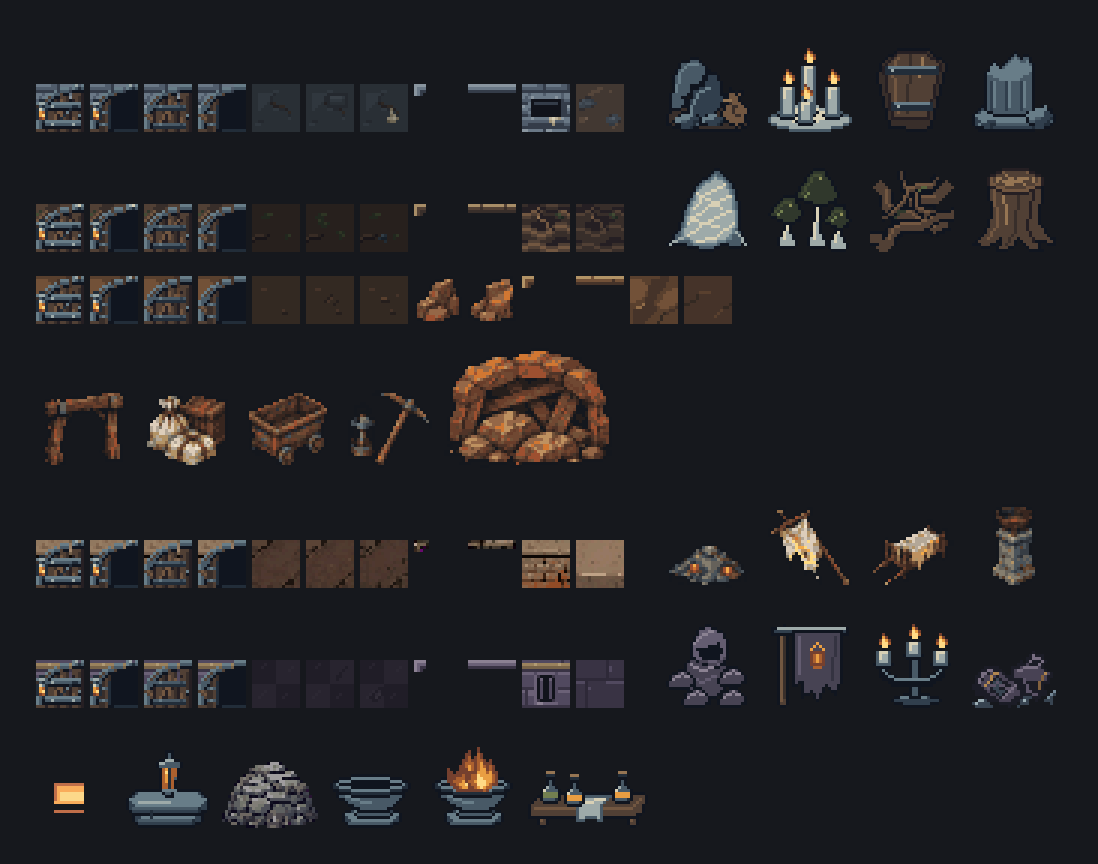
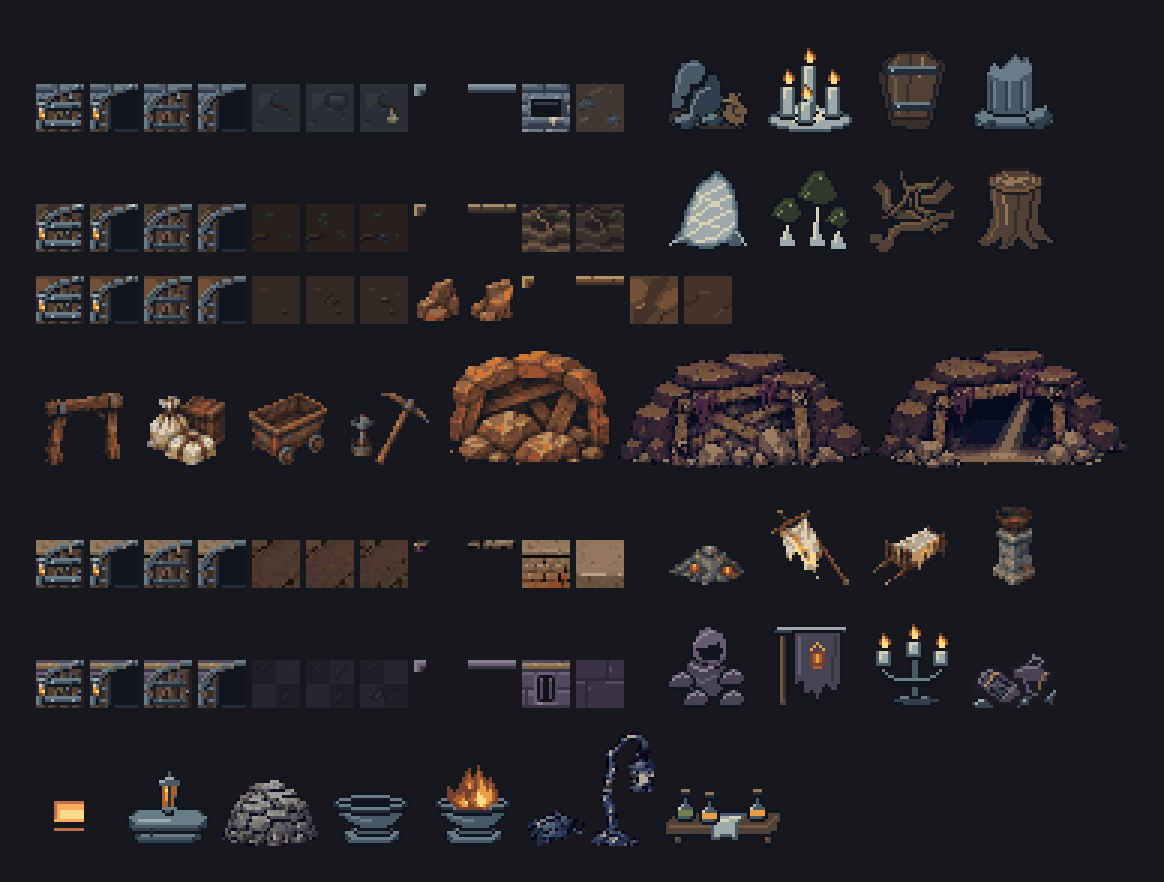
feat: 게임 구역에 에셋 페이지 — 모음 그림을 게임 홈에서 옮김, 기억의 길 그림 반영
- /games/<게임>/assets/ 와 구역 메뉴 '에셋' (gallery가 있는 게임만)
- 갤러리 다시 만듦: 캐릭터에 옛 왕국 사람 5종, 타일·소품에 기억의 길 소품

diff --git a/src/lib/data.js b/src/lib/data.js
@@ -54,13 +54,14 @@ export const storyFor = (slug) =>
     .map(([p, m]) => ({ slug: p.split('/').pop().replace(/^\d+-/, '').replace(/\.md$/, ''), ...m.frontmatter, Content: m.Content }))
     .sort((a, b) => a.order - b.order);
 
-// 게임 구역 메뉴 줄 (게임 이름 옆에 붙음): 게임 홈 · 소설(원고가 있을 때만) · 블로그 · 소개
+// 게임 구역 메뉴 줄 (게임 이름 옆에 붙음): 게임 홈 · 소설(원고가 있을 때만) · 에셋(gallery가 있을 때만) · 블로그 · 소개
 export const gameNav = (game) => {
   const base = `/games/${game.slug}/`;
-  const subs = ['story/', 'blog/', 'about/'].map((s) => base + s);
+  const subs = ['story/', 'assets/', 'blog/', 'about/'].map((s) => base + s);
   return [
     { href: base, label: '게임 홈', not: subs },
     ...(storyFor(game.slug).length > 0 ? [{ href: base + 'story/', label: '소설' }] : []),
+    ...(game.gallery?.length > 0 ? [{ href: base + 'assets/', label: '에셋' }] : []),
     { href: base + 'blog/', label: '블로그' },
     { href: base + 'about/', label: '소개' },
   ];

diff --git a/README.md b/README.md
@@ -31,7 +31,7 @@ scripts/fetch-commits.mjs   커밋 기록 가져오기
 
 **세계관 글**: 게임 저장소의 설정 문서는 비공개라 그대로 옮기지 않아요. 뼈대만 짧게 다시 쓰고, 보스의 정체와 엔딩은 적지 않아요.
 
-**새 게임 추가**: `src/data/games/<slug>.json`을 하나 더 두면 (등불지기 것을 본떠서, `order`는 다음 번호) 그 게임 구역이 통째로 생겨요 — 홈 `/games/<slug>/`, 블로그 `/games/<slug>/blog/`, 소개 `/games/<slug>/about/`. 그 구역 안에서는 맨 위 메뉴 아래에 그 게임 메뉴 줄이 하나 더 붙어요. 그림은 `public/games/<slug>/art/`, 글은 `src/posts/<slug>/`, 소설이 있으면 아래 `import-story.py`로 옮기고 JSON에 `story`(제목 `title`, 소개 문장 `lead`, 안내 `note`)를 적어요. 전체 홈의 게임 목록에도 한 줄이 저절로 늘어요.
+**새 게임 추가**: `src/data/games/<slug>.json`을 하나 더 두면 (등불지기 것을 본떠서, `order`는 다음 번호) 그 게임 구역이 통째로 생겨요 — 홈 `/games/<slug>/`, 블로그 `/games/<slug>/blog/`, 소개 `/games/<slug>/about/` (`gallery`가 있으면 에셋 `/games/<slug>/assets/`). 그 구역 안에서는 맨 위 메뉴 아래에 그 게임 메뉴 줄이 하나 더 붙어요. 그림은 `public/games/<slug>/art/`, 글은 `src/posts/<slug>/`, 소설이 있으면 아래 `import-story.py`로 옮기고 JSON에 `story`(제목 `title`, 소개 문장 `lead`, 안내 `note`)를 적어요. 전체 홈의 게임 목록에도 한 줄이 저절로 늘어요.
 
 **게임 상태 바꾸기**: 게임 JSON의 `status`를 `개발 중` / `데모` / `출시` 중 하나로.
 - `개발 중`: 플레이 화면 대신 "테스트 참여 문의"
@@ -62,7 +62,7 @@ scripts/publish-webgl.sh lanternkeeper ../LanternKeeper --pre-method SpriteLibra
 ```
 ../.venv/bin/python scripts/make-gallery.py lanternkeeper ../LanternKeeper/Assets/Art --zones catacomb,forest,cave,corridor,castle --own village,hub
 ```
-게임 그림 폴더의 png를 파일 이름 앞머리(`char_`·`enemy_` / `tile_`·`prop_` / `icon_`·`weapon_`·`proj_`·`obj_`·`pickup_` / `fx_` / `ui_`, 보스 `boss_`)로 나눠 `public/games/<slug>/art/gallery_*.webp`를 만들어요. `--own`에 적은 이름(마을)의 타일·소품은 `gallery_village.webp`로 따로 한 장. `boss_`는 `gallery_bosses.webp`에 보스마다 한 줄(자세 그림 포함), `obj_`(소환수)는 아이콘·무기 모음, `ui_`는 `gallery_ui.webp`. 어느 모음에도 안 들어간 그림이 있으면 끝에 이름을 알려 줘요(새 앞머리가 생기면 스크립트에 추가). 게임 JSON의 `gallery`(제목·그림·크기·설명)와 `galleryNote`는 직접 적어요. `gallery`가 없는 게임은 칸이 나오지 않아요. 게임 그림이 바뀌면 다시 실행하고, 출력에 나온 크기가 달라졌으면 `gallery`의 `width`·`height`도 고쳐요.
+게임 그림 폴더의 png를 파일 이름 앞머리(`char_`·`enemy_` / `tile_`·`prop_` / `icon_`·`weapon_`·`proj_`·`obj_`·`pickup_` / `fx_` / `ui_`, 보스 `boss_`)로 나눠 `public/games/<slug>/art/gallery_*.webp`를 만들어요. `--own`에 적은 이름(마을)의 타일·소품은 `gallery_village.webp`로 따로 한 장. `boss_`는 `gallery_bosses.webp`에 보스마다 한 줄(자세 그림 포함), `obj_`(소환수)는 아이콘·무기 모음, `ui_`는 `gallery_ui.webp`. 어느 모음에도 안 들어간 그림이 있으면 끝에 이름을 알려 줘요(새 앞머리가 생기면 스크립트에 추가). 게임 JSON의 `gallery`(제목·그림·크기·설명)와 `galleryNote`는 직접 적어요. 모음 그림은 게임 구역의 에셋 페이지(`/games/<slug>/assets/`)에 나오고, `gallery`가 없는 게임은 그 페이지와 메뉴 칸이 생기지 않아요. 게임 그림이 바뀌면 다시 실행하고, 출력에 나온 크기가 달라졌으면 `gallery`의 `width`·`height`도 고쳐요.
 
 **소설: `scripts/import-story.py <게임 slug> <원고 폴더>`**
 ```

diff --git a/CLAUDE.md b/CLAUDE.md
@@ -3,7 +3,7 @@
 사용자: yoogeonhee (한국어로 대답). Unity로 게임을 만드는 1인 개발자. 이 저장소는 만드는 게임들을 다루는 개발 블로그. 게임마다 구역이 따로 있다 (2026-11-25 개편 — 11-21에 등불지기 하나만 다루는 구조로 바꿨다가, 새 게임을 만들 때마다 같은 것이 하나씩 더 생기도록 사용자가 다시 정함).
 
 ## 핵심 원칙
-- **게임 하나 = 구역 하나.** `src/data/games/<slug>.json` 파일 하나를 두면 그 게임의 홈 `/games/<slug>/` · 블로그 `/games/<slug>/blog/` · 소개 `/games/<slug>/about/`가 생기고, 소설 원고(`src/story/<slug>/`)가 있으면 소설 `/games/<slug>/story/`도 생긴다. 맨 위 메뉴(홈 · 게임 · 블로그 · 소개)는 어디서나 같고, 게임 구역 안에서는 그 아래에 연한 바탕의 게임 메뉴 줄(게임 이름 + 게임 홈 · 소설 · 블로그 · 소개)이 하나 더 붙는다. 전체 홈 `/`은 어느 게임에도 속하지 않는 화면이라 게임 표지 그림을 걸지 않고 게임을 글자 줄 목록으로만 보여 준다 (2026-11-25 사용자 결정 — 전체 홈과 게임 홈이 구분되게). `/games/`는 게임 카드 목록(`order` 순), `/blog/`는 모든 게임 글을 모은 목록, `/about/`은 만든 사람 소개 하나(게임마다 따로 두지 않음).
+- **게임 하나 = 구역 하나.** `src/data/games/<slug>.json` 파일 하나를 두면 그 게임의 홈 `/games/<slug>/` · 블로그 `/games/<slug>/blog/` · 소개 `/games/<slug>/about/`가 생기고, 소설 원고(`src/story/<slug>/`)가 있으면 소설 `/games/<slug>/story/`, JSON에 `gallery`가 있으면 에셋 `/games/<slug>/assets/`도 생긴다 (2026-11-25 사용자 결정 — 에셋 모음 그림이 게임 홈에 다 있으면 지저분해서 따로 뺌. 게임 홈에는 등장 캐릭터까지만). 맨 위 메뉴(홈 · 게임 · 블로그 · 소개)는 어디서나 같고, 게임 구역 안에서는 그 아래에 연한 바탕의 게임 메뉴 줄(게임 이름 + 게임 홈 · 소설 · 에셋 · 블로그 · 소개)이 하나 더 붙는다. 전체 홈 `/`은 어느 게임에도 속하지 않는 화면이라 게임 표지 그림을 걸지 않고 게임을 글자 줄 목록으로만 보여 준다 (2026-11-25 사용자 결정 — 전체 홈과 게임 홈이 구분되게). `/games/`는 게임 카드 목록(`order` 순), `/blog/`는 모든 게임 글을 모은 목록, `/about/`은 만든 사람 소개 하나(게임마다 따로 두지 않음).
 - 게임의 정보는 그 게임 JSON 하나에 모은다. 게임 안의 모드·장르는 `places`에 한 줄씩(등불지기는 마을의 입구 하나 = 카드 하나), 세계관 요약은 `world`, 소설 제목·소개 문장은 `story`, 개인정보처리방침 링크는 `privacy`. 페이지·카드는 데이터에서 자동 생성된다. 한 게임에만 있는 페이지(등불지기 개인정보처리방침)는 `src/pages/games/<slug>/`에 따로 둔다.
 - 글은 `src/posts/<slug>/*.md`에 두면 그 게임 블로그에만 나오고 이전·다음 글도 같은 게임끼리 이어진다. 게임에 속하지 않는 글만 `src/posts/` 바로 아래(주소 `/blog/<글>/`). 예전 주소 `/blog/devlog-dayN/`은 등불지기 글로 넘어가게 해 두었으니 지우지 않는다.
 - `src/data/commits/*.json`은 `scripts/fetch-commits.mjs`가 만드는 파일. 손으로 고치지 않는다.
